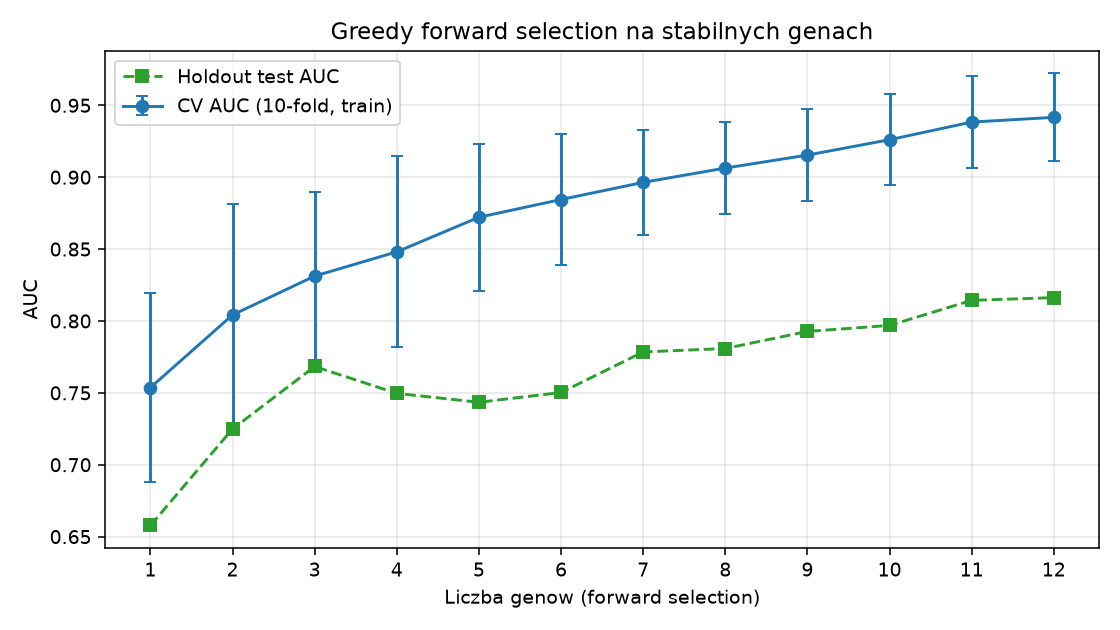
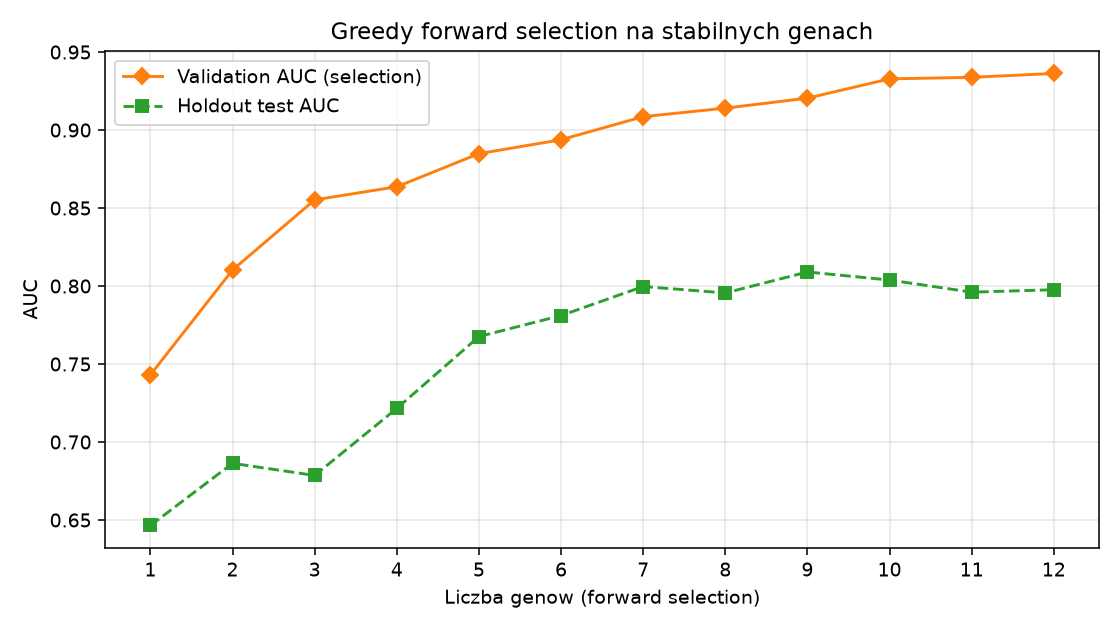
add prediction on all genes and chande selecting based on valid instead of train cv

diff --git a/3_forward_selection.py b/3_forward_selection.py
@@ -4,13 +4,15 @@ Methodology: reuses the split and label encoding of 2_stable_selection_with_enet
 The stable genes are taken from the raw (not covariate-corrected) matrix and
 standardized per column. Candidates are the
 genes that passed stability selection. At each step the gene whose addition maximizes
-the mean cross-validated AUC of a logistic regression on the training set is appended
-to the panel; folds come from the dataset's multi-criteria stratified k-fold and are
-computed once so the steps stay comparable. Holdout test AUC is reported alongside but
-never used for selection. The procedure stops at TOP_K_FINAL genes.
+the validation-set AUC of a logistic regression fitted on the whole training set is
+appended to the panel. Holdout test AUC is reported alongside but never used for
+selection. The procedure stops at TOP_K_FINAL genes.
 """
 
 import warnings
+
+from utilz.multi_residual_bootstrap import CovariateResidualizer, build_covariates
+
 warnings.filterwarnings('ignore')
 
 import os
@@ -42,59 +44,45 @@ BASE_SEED  = 2137
 
 STABLE_GENES_CSV = "2_stable_selection_with_enet/stability_all_stable_genes.csv"
 TOP_K_FINAL      = 12
-SELECT_CV_FOLDS  = 10
 
 OUT_CSV_PATH = f"{OUT_DIR}/forward_selection_genes.csv"
 OUT_PNG_PATH = f"{OUT_DIR}/forward_selection_auc.png"
 
 
-def cv_auc_train(X, y, idx, folds, seed=BASE_SEED):
-    aucs = []
-    Xi = X[:, idx]
-    for tr, va in folds:
-        mdl = LogisticRegression(
-            max_iter=20000, class_weight='balanced', random_state=seed,
-        ).fit(Xi[tr], y[tr])
-        aucs.append(roc_auc_score(y[va], mdl.predict_proba(Xi[va])[:, 1]))
-    return float(np.mean(aucs)), float(np.std(aucs, ddof=1))
-
-
-def test_auc(X_tr, y_tr, X_te, y_te, idx, seed=BASE_SEED):
+def holdout_auc(X_tr, y_tr, X_ho, y_ho, idx, seed=BASE_SEED):
     mdl = LogisticRegression(
         max_iter=20000, class_weight='balanced', random_state=seed,
     ).fit(X_tr[:, idx], y_tr)
-    return float(roc_auc_score(y_te, mdl.predict_proba(X_te[:, idx])[:, 1]))
+    return float(roc_auc_score(y_ho, mdl.predict_proba(X_ho[:, idx])[:, 1]))
 
 
-def forward_select(X_tr, y_tr, candidate_idx, gene_names, k_max,
-                   folds, seed=BASE_SEED,
-                   X_te=None, y_te=None):
+def forward_select(X_tr, y_tr, X_va, y_va, candidate_idx, gene_names, k_max,
+                   seed=BASE_SEED, X_te=None, y_te=None):
     selected = []
     remaining = list(candidate_idx)
     rows = []
     k_max = min(k_max, len(remaining))
 
     for step in range(1, k_max + 1):
-        best_col, best_auc, best_std = None, -np.inf, np.nan
+        best_col, best_auc = None, -np.inf
         for col in remaining:
             trial = selected + [col]
-            auc_mean, auc_std = cv_auc_train(X_tr, y_tr, trial, folds, seed)
-            if auc_mean > best_auc:
-                best_col, best_auc, best_std = col, auc_mean, auc_std
+            auc_va = holdout_auc(X_tr, y_tr, X_va, y_va, trial, seed)
+            if auc_va > best_auc:
+                best_col, best_auc = col, auc_va
 
         selected.append(best_col)
         remaining.remove(best_col)
 
         row = {
-            'step':     step,
-            'gene':     gene_names[best_col],
-            'auc_mean': best_auc,
-            'auc_std':  best_std,
+            'step':      step,
+            'gene':      gene_names[best_col],
+            'auc_valid': best_auc,
         }
         msg = (f"  +{step:>2}  {gene_names[best_col]:<18}"
-               f"  CV AUC(train) = {best_auc:.4f}+-{best_std:.4f}")
+               f"  valid AUC = {best_auc:.4f}")
         if X_te is not None and y_te is not None:
-            row['auc_test'] = test_auc(X_tr, y_tr, X_te, y_te, selected, seed)
+            row['auc_test'] = holdout_auc(X_tr, y_tr, X_te, y_te, selected, seed)
             msg += f"  | test AUC = {row['auc_test']:.4f}"
         rows.append(row)
         print(msg)
@@ -110,9 +98,8 @@ X_tr_raw, X_te_raw, X_va_raw, y_train, y_test, y_valid = ds.get_train_test_valid
     ds.X, y_enc, test_size=TEST_SIZE, valid_size=VALID_SIZE,
     random_state=BASE_SEED,
 )
-X_te_raw = pd.concat([X_te_raw, X_va_raw])
-y_test   = pd.concat([y_test, y_valid])
 print(f"Train: {len(X_tr_raw)}  cancer={int(y_train.sum())} ctrl={int((y_train==0).sum())}")
+print(f"Valid: {len(X_va_raw)}  cancer={int(y_valid.sum())}  ctrl={int((y_valid==0).sum())}")
 print(f"Test:  {len(X_te_raw)}  cancer={int(y_test.sum())}  ctrl={int((y_test==0).sum())}")
 
 stable_df = pd.read_csv(STABLE_GENES_CSV)
@@ -124,22 +111,29 @@ if missing:
 print(f"[forward] candidate pool: {len(genes)} genes  -> selecting {TOP_K_FINAL}")
 
 X_tr_df = X_tr_raw[genes]
+X_va_df = X_va_raw[genes]
 X_te_df = X_te_raw[genes]
+cov = build_covariates(ds.meta)
+
 scale_pipe = Pipeline([
+    ('multi_resid', CovariateResidualizer(
+        covariates=cov, labels=y_train,
+        n_bootstrap=1000, min_r2=0.05, cv_threshold_pct=30.0,
+    )),
     ('scaler', StandardScaler()),
 ])
 X_tr_z = scale_pipe.fit_transform(X_tr_df)
+X_va_z = scale_pipe.transform(X_va_df)
 X_te_z = scale_pipe.transform(X_te_df)
 y_tr_np = y_train.values
+y_va_np = y_valid.values
 y_te_np = y_test.values
 
-print(f"\n=== forward selection (CV AUC on train, {SELECT_CV_FOLDS}-fold) ===")
+print(f"\n=== forward selection (AUC on validation set) ===")
 candidate_idx = list(range(len(genes)))
-folds = ds.get_stratified_kfold(X_tr_df, y_train, n_splits=SELECT_CV_FOLDS, random_state=BASE_SEED)
 selected_idx, fs_df = forward_select(
-    X_tr_z, y_tr_np, candidate_idx, genes, k_max=TOP_K_FINAL,
-    folds=folds, seed=BASE_SEED,
-    X_te=X_te_z, y_te=y_te_np,
+    X_tr_z, y_tr_np, X_va_z, y_va_np, candidate_idx, genes, k_max=TOP_K_FINAL,
+    seed=BASE_SEED, X_te=X_te_z, y_te=y_te_np,
 )
 selected_genes = [genes[i] for i in selected_idx]
 print(f"\nSelected {len(selected_genes)} genes (in order of selection):")
@@ -150,9 +144,8 @@ fs_df.to_csv(OUT_CSV_PATH, index=False)
 print(f"\n[OK] order + AUC -> {OUT_CSV_PATH}")
 
 fig, ax = plt.subplots(figsize=(8, 4.5))
-ax.errorbar(fs_df['step'], fs_df['auc_mean'], yerr=fs_df['auc_std'],
-            marker='o', capsize=3,
-            label=f'CV AUC ({SELECT_CV_FOLDS}-fold, train)')
+ax.plot(fs_df['step'], fs_df['auc_valid'],
+        marker='D', color='tab:orange', label='Validation AUC (selection)')
 if 'auc_test' in fs_df.columns:
     ax.plot(fs_df['step'], fs_df['auc_test'],
             marker='s', linestyle='--', color='tab:green',

diff --git a/6_prediction_all_stable_genes.py b/6_prediction_all_stable_genes.py
@@ -64,11 +64,11 @@ from utilz.multi_residual_bootstrap import (
 
 meta_path        = r"../data/samples_pancreatic.xlsx"
 data_path        = r"../data/counts_pancreatic.csv"
-GENES_CSV        = "3_forward_selection/forward_selection_genes.csv"
+GENES_CSV        = "2_stable_selection_with_enet/stability_all_stable_genes.csv"
 
 TEST_SIZE  = 0.2
 VALID_SIZE = 0.2
-BASE_SEED         = 2137
+BASE_SEED = 2137
 
 GRID_CV_FOLDS     = 30
 N_JOBS            = -1

diff --git a/utilz/multi_residual_bootstrap.py b/utilz/multi_residual_bootstrap.py
@@ -134,7 +134,7 @@ class CovariateResidualizer(BaseEstimator, TransformerMixin):
         return np.asarray(input_features, dtype=object)
 
 
-def build_covariates(meta, age='Age', sex='Sex', libsize='Lib.size', ptprc='PTPRC'):
+def build_covariates(meta, age='Age', sex='Sex', libsize='Lib.size'):
     return pd.DataFrame({
         'age':           meta[age].astype(float),
         'sex':           meta[sex].map({'F': 0, 'M': 1}).astype(float),
